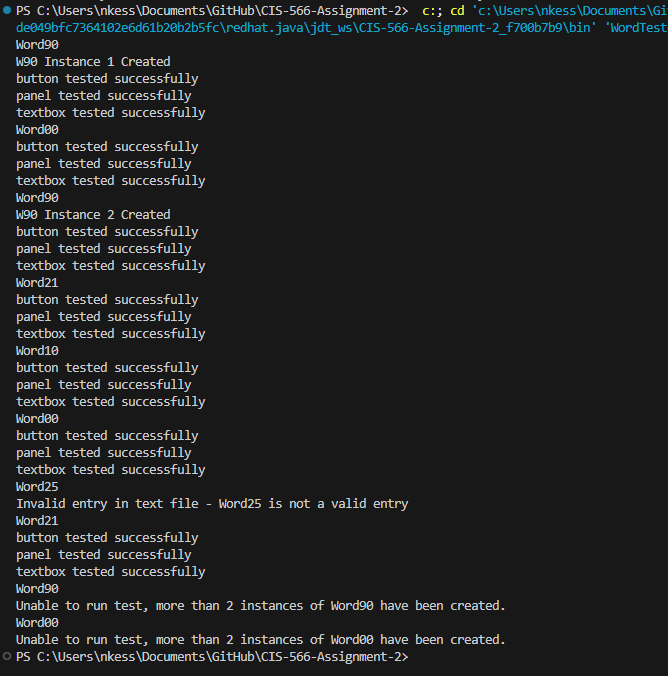
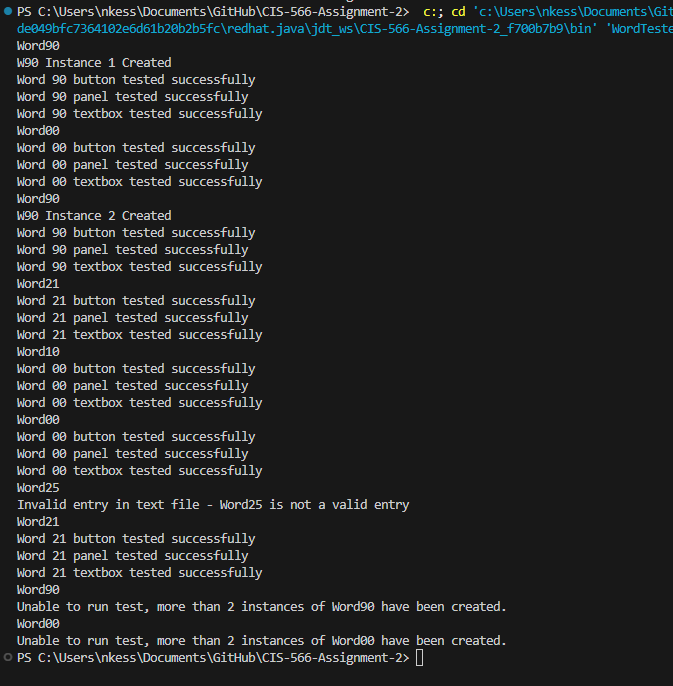
Fix for test message

Changed region(s): [[0.0, 0.0, 1.0, 0.9941]]

diff --git a/Word00Version.java b/Word00Version.java
@@ -16,4 +16,10 @@ public class Word00Version extends WordVersion{
 		}
 
 	}
+
+	public void WordTest(){
+		System.out.println("Word 00 button tested successfully");
+		System.out.println("Word 00 panel tested successfully");
+		System.out.println("Word 00 textbox tested successfully");
+	}
 }

diff --git a/Word10Version.java b/Word10Version.java
@@ -16,4 +16,10 @@ public class Word10Version extends WordVersion{
 		}
 
 	}
+
+	public void WordTest(){
+		System.out.println("Word 00 button tested successfully");
+		System.out.println("Word 00 panel tested successfully");
+		System.out.println("Word 00 textbox tested successfully");
+	}
 }

diff --git a/Word21Version.java b/Word21Version.java
@@ -16,4 +16,10 @@ public class Word21Version extends WordVersion{
 		}
 
 	}
+
+	public void WordTest(){
+		System.out.println("Word 21 button tested successfully");
+		System.out.println("Word 21 panel tested successfully");
+		System.out.println("Word 21 textbox tested successfully");
+	}
 }

diff --git a/Word90Version.java b/Word90Version.java
@@ -18,4 +18,9 @@ public class Word90Version extends WordVersion {
 		}
 
 	}
+	public void WordTest(){
+		System.out.println("Word 90 button tested successfully");
+		System.out.println("Word 90 panel tested successfully");
+		System.out.println("Word 90 textbox tested successfully");
+	}
 }
